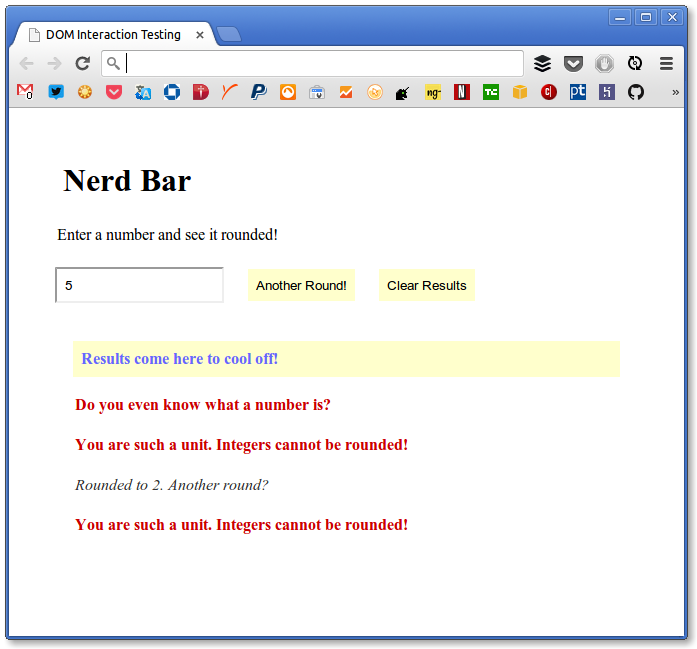
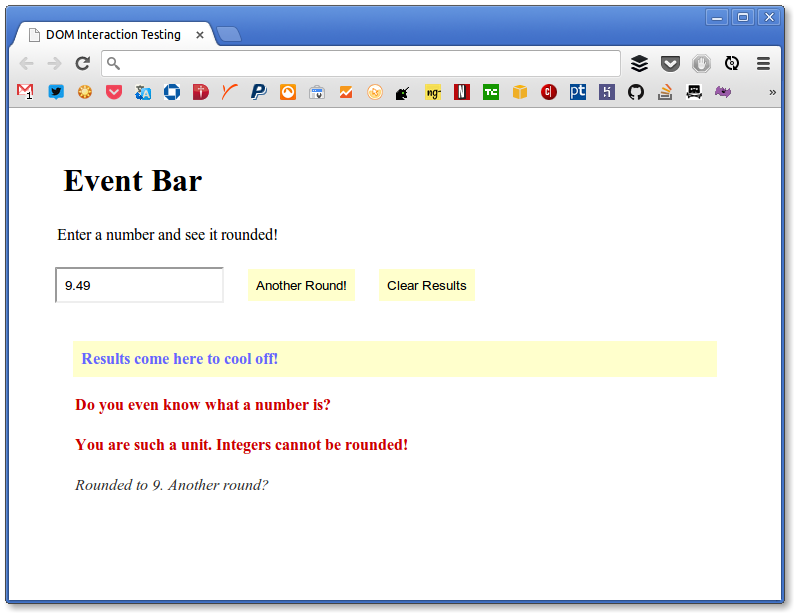
minor

diff --git a/ch06/README.md b/ch06/README.md
@@ -44,3 +44,5 @@ All samples are self-contained, ready to use, and sensibly documented.
     - [Infinite Sequence](https://github.com/bevacqua/buildfirst/tree/master/ch06/12_generator-basics/01_even-stream.js)
     - [Iterate Using For Of](https://github.com/bevacqua/buildfirst/tree/master/ch06/12_generator-basics/02_for-of.js)
 - [Asynchronicity and Generators](https://github.com/bevacqua/buildfirst/tree/master/ch06/13_generator-flow)
+
+For questions or feedback refer to my [contact information](https://github.com/bevacqua/buildfirst#feedback).

diff --git a/ch08/07_dom-interaction-testing/README.md b/ch08/07_dom-interaction-testing/README.md
@@ -4,6 +4,13 @@
 
 Testing the interaction between the DOM and JavaScript code can be complicated. This example sets up a _Event Bar_, where numbers go to get a round.
 
+In order to run the example, you'll need to browserify the client-side code, first.
+
+```shell
+grunt build
+open .
+```
+
 Here is the _Event Bar_ in all its glory.
 
 ![event-bar.png][2]

diff --git a/ch08/README.md b/ch08/README.md
@@ -18,4 +18,6 @@ All samples are self-contained, ready to use, and sensibly documented.
 
 ![tape.png][1]
 
+For questions or feedback refer to my [contact information](https://github.com/bevacqua/buildfirst#feedback).
+
   [1]: https://raw.github.com/bevacqua/buildfirst/master/images/tape.png "Tape, a test harness written by @substack"

diff --git a/ch07/README.md b/ch07/README.md
@@ -9,3 +9,6 @@ These are the samples as discussed through the chapter, in the same order of app
 All samples are self-contained, ready to use, and sensibly documented.
 
 ### Contents
+
+
+For questions or feedback refer to my [contact information](https://github.com/bevacqua/buildfirst#feedback).
